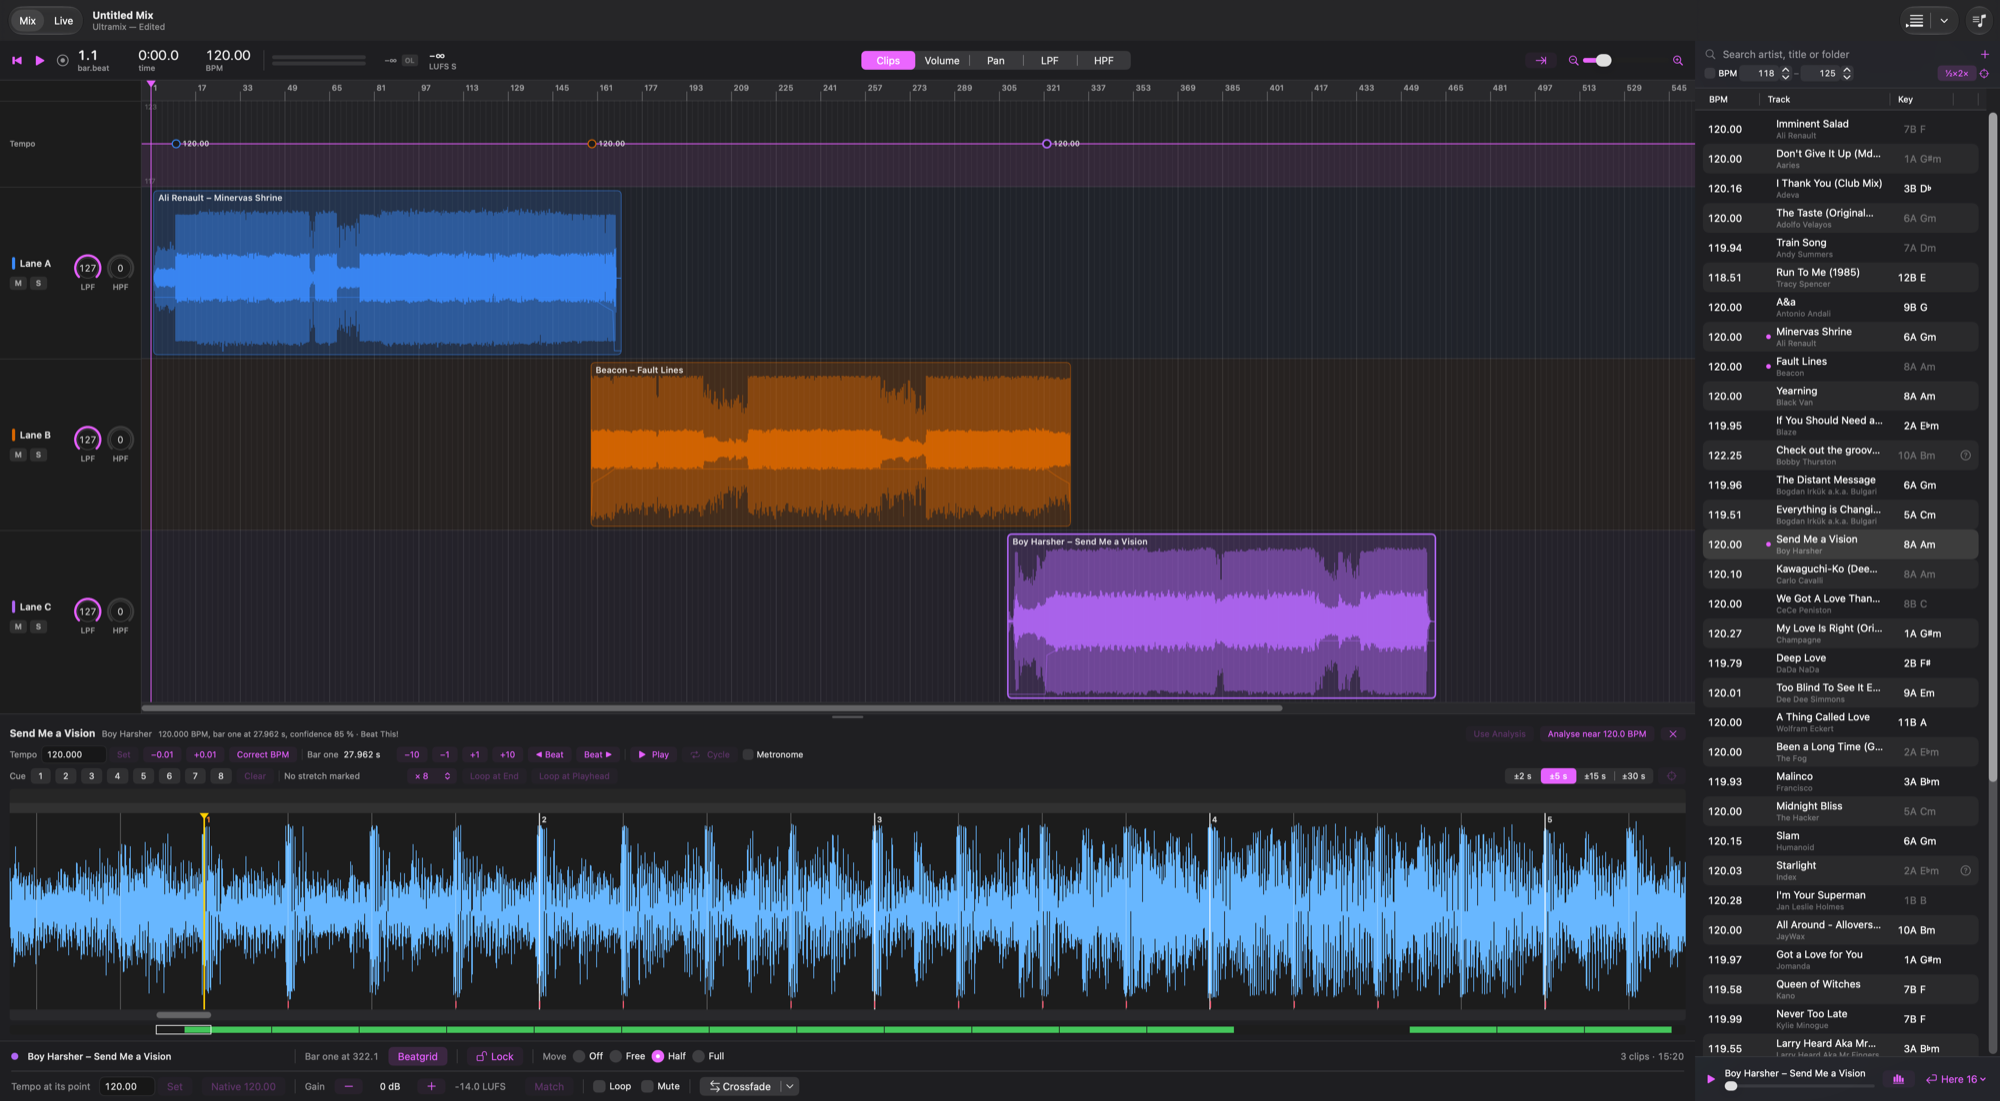
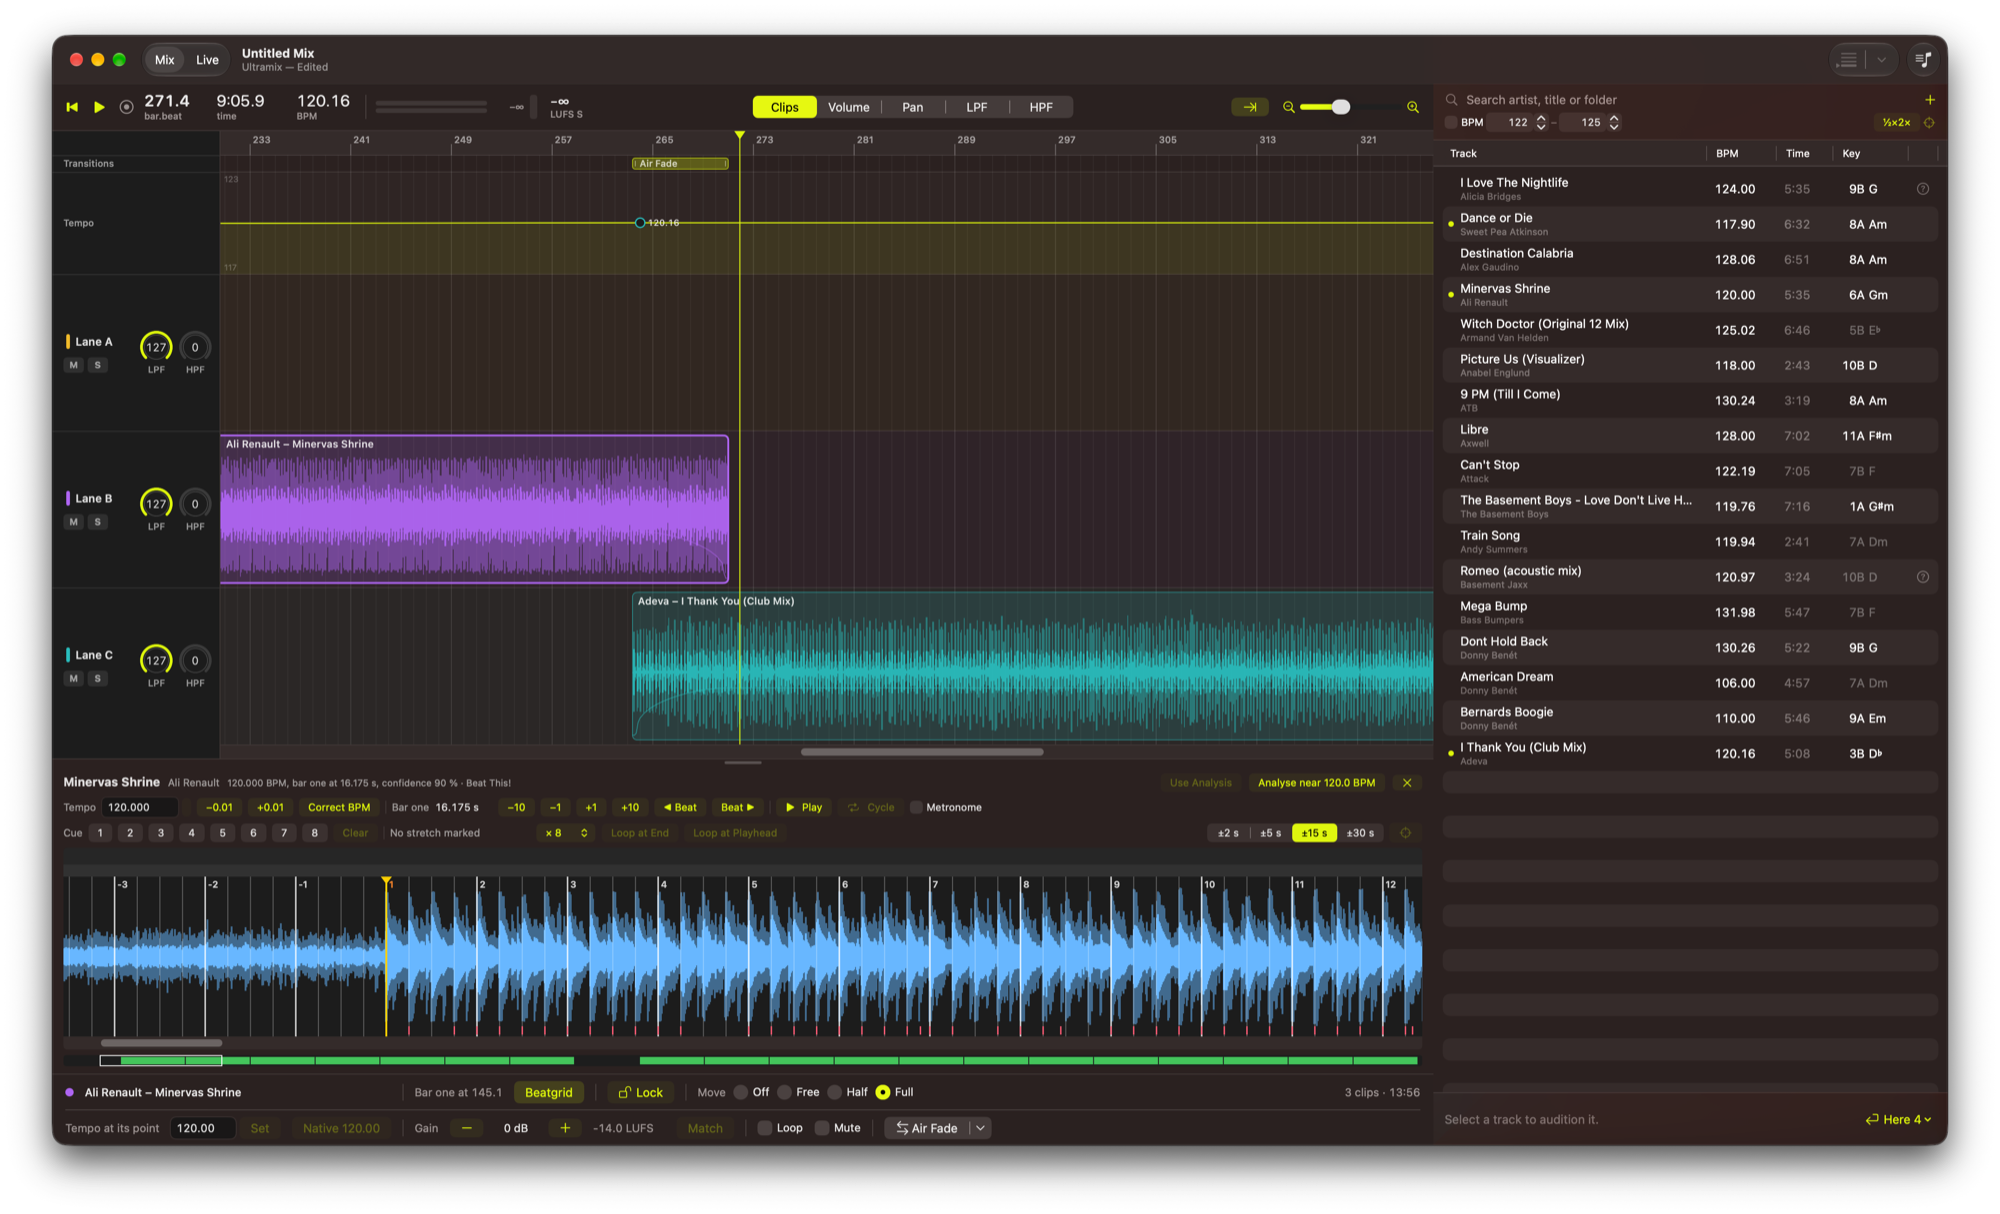
Update the README screenshot
Shows the new Transitions strip with an Air Fade bar over the overlap of
two clips, above the tempo lane, with the beatgrid editor open below.
Resized from a 4304x2614 capture to 2000px wide, as before.

diff --git a/README.md b/README.md
@@ -4,7 +4,7 @@ A native macOS DJ mix editor: build a complete mix on a beat-based timeline
 before the party, hear every transition while you shape it, and bounce the
 finished set to WAV or MP3.
 
-![Ultramix: a three-lane timeline with the beatgrid editor open](screenshot.png)
+![Ultramix: a three-lane timeline with a transition bar and the beatgrid editor open](screenshot.png)
 
 Swift, SwiftUI and AVFoundation, Apple Silicon only.
 
